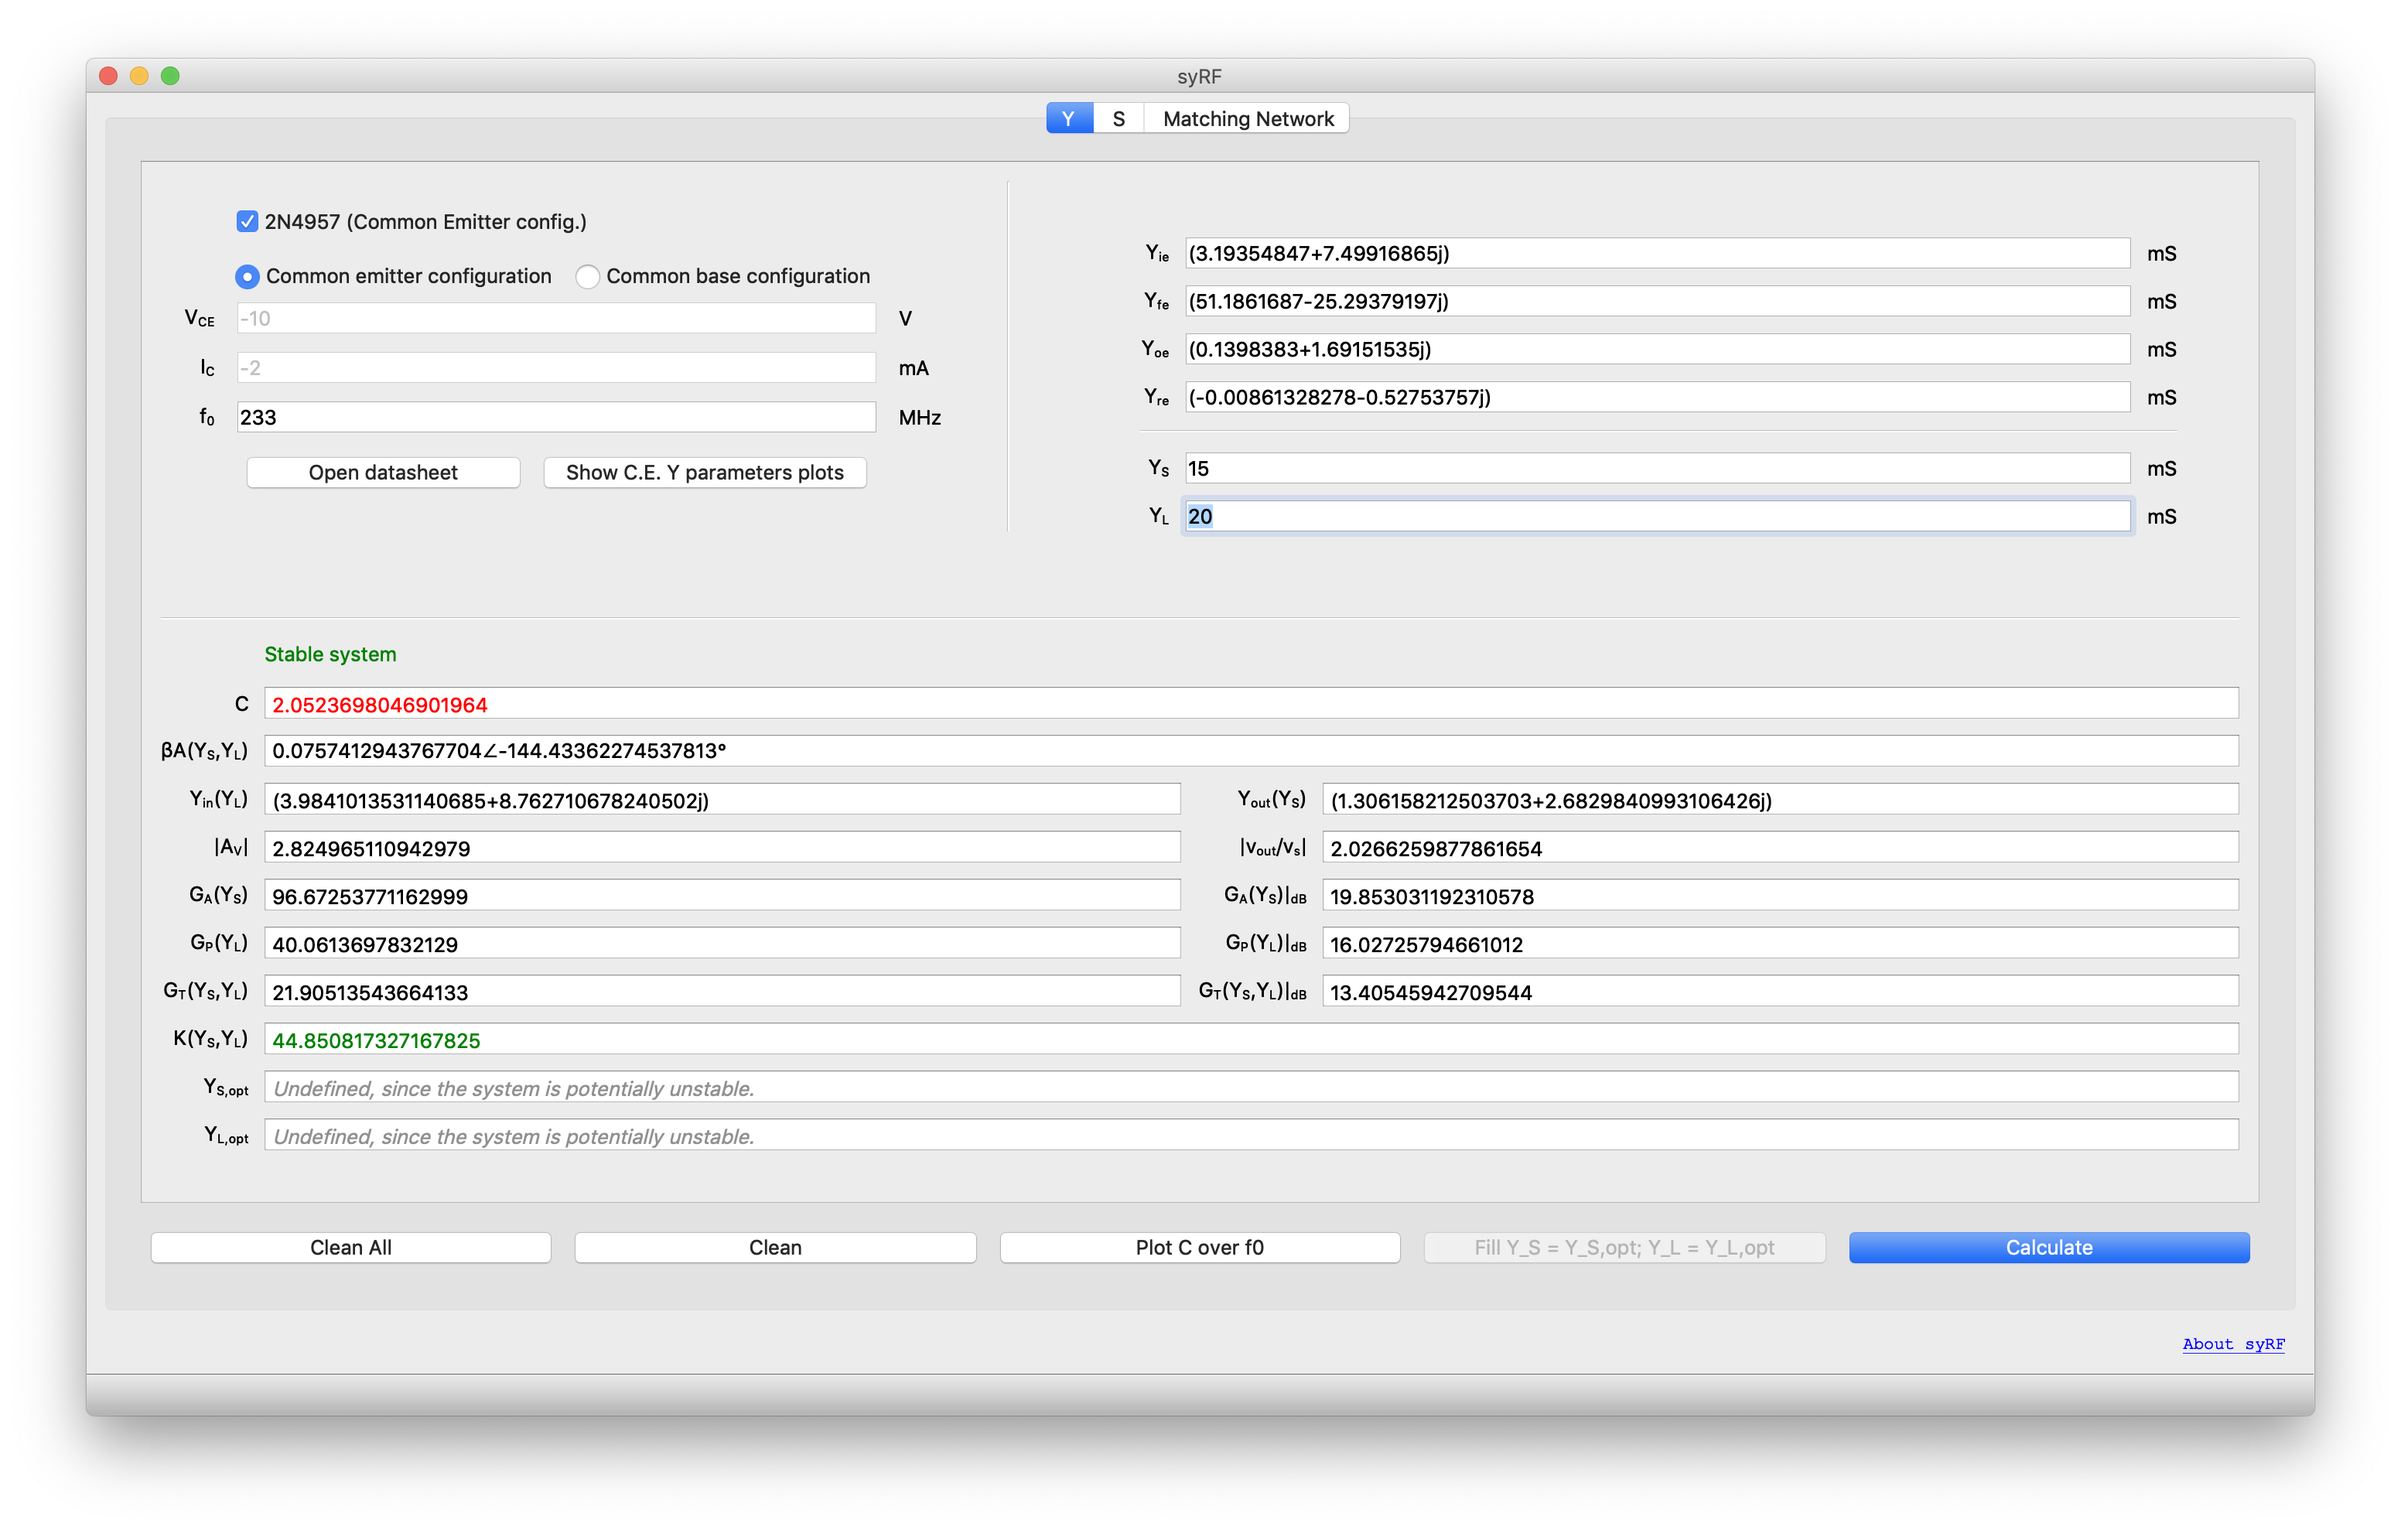
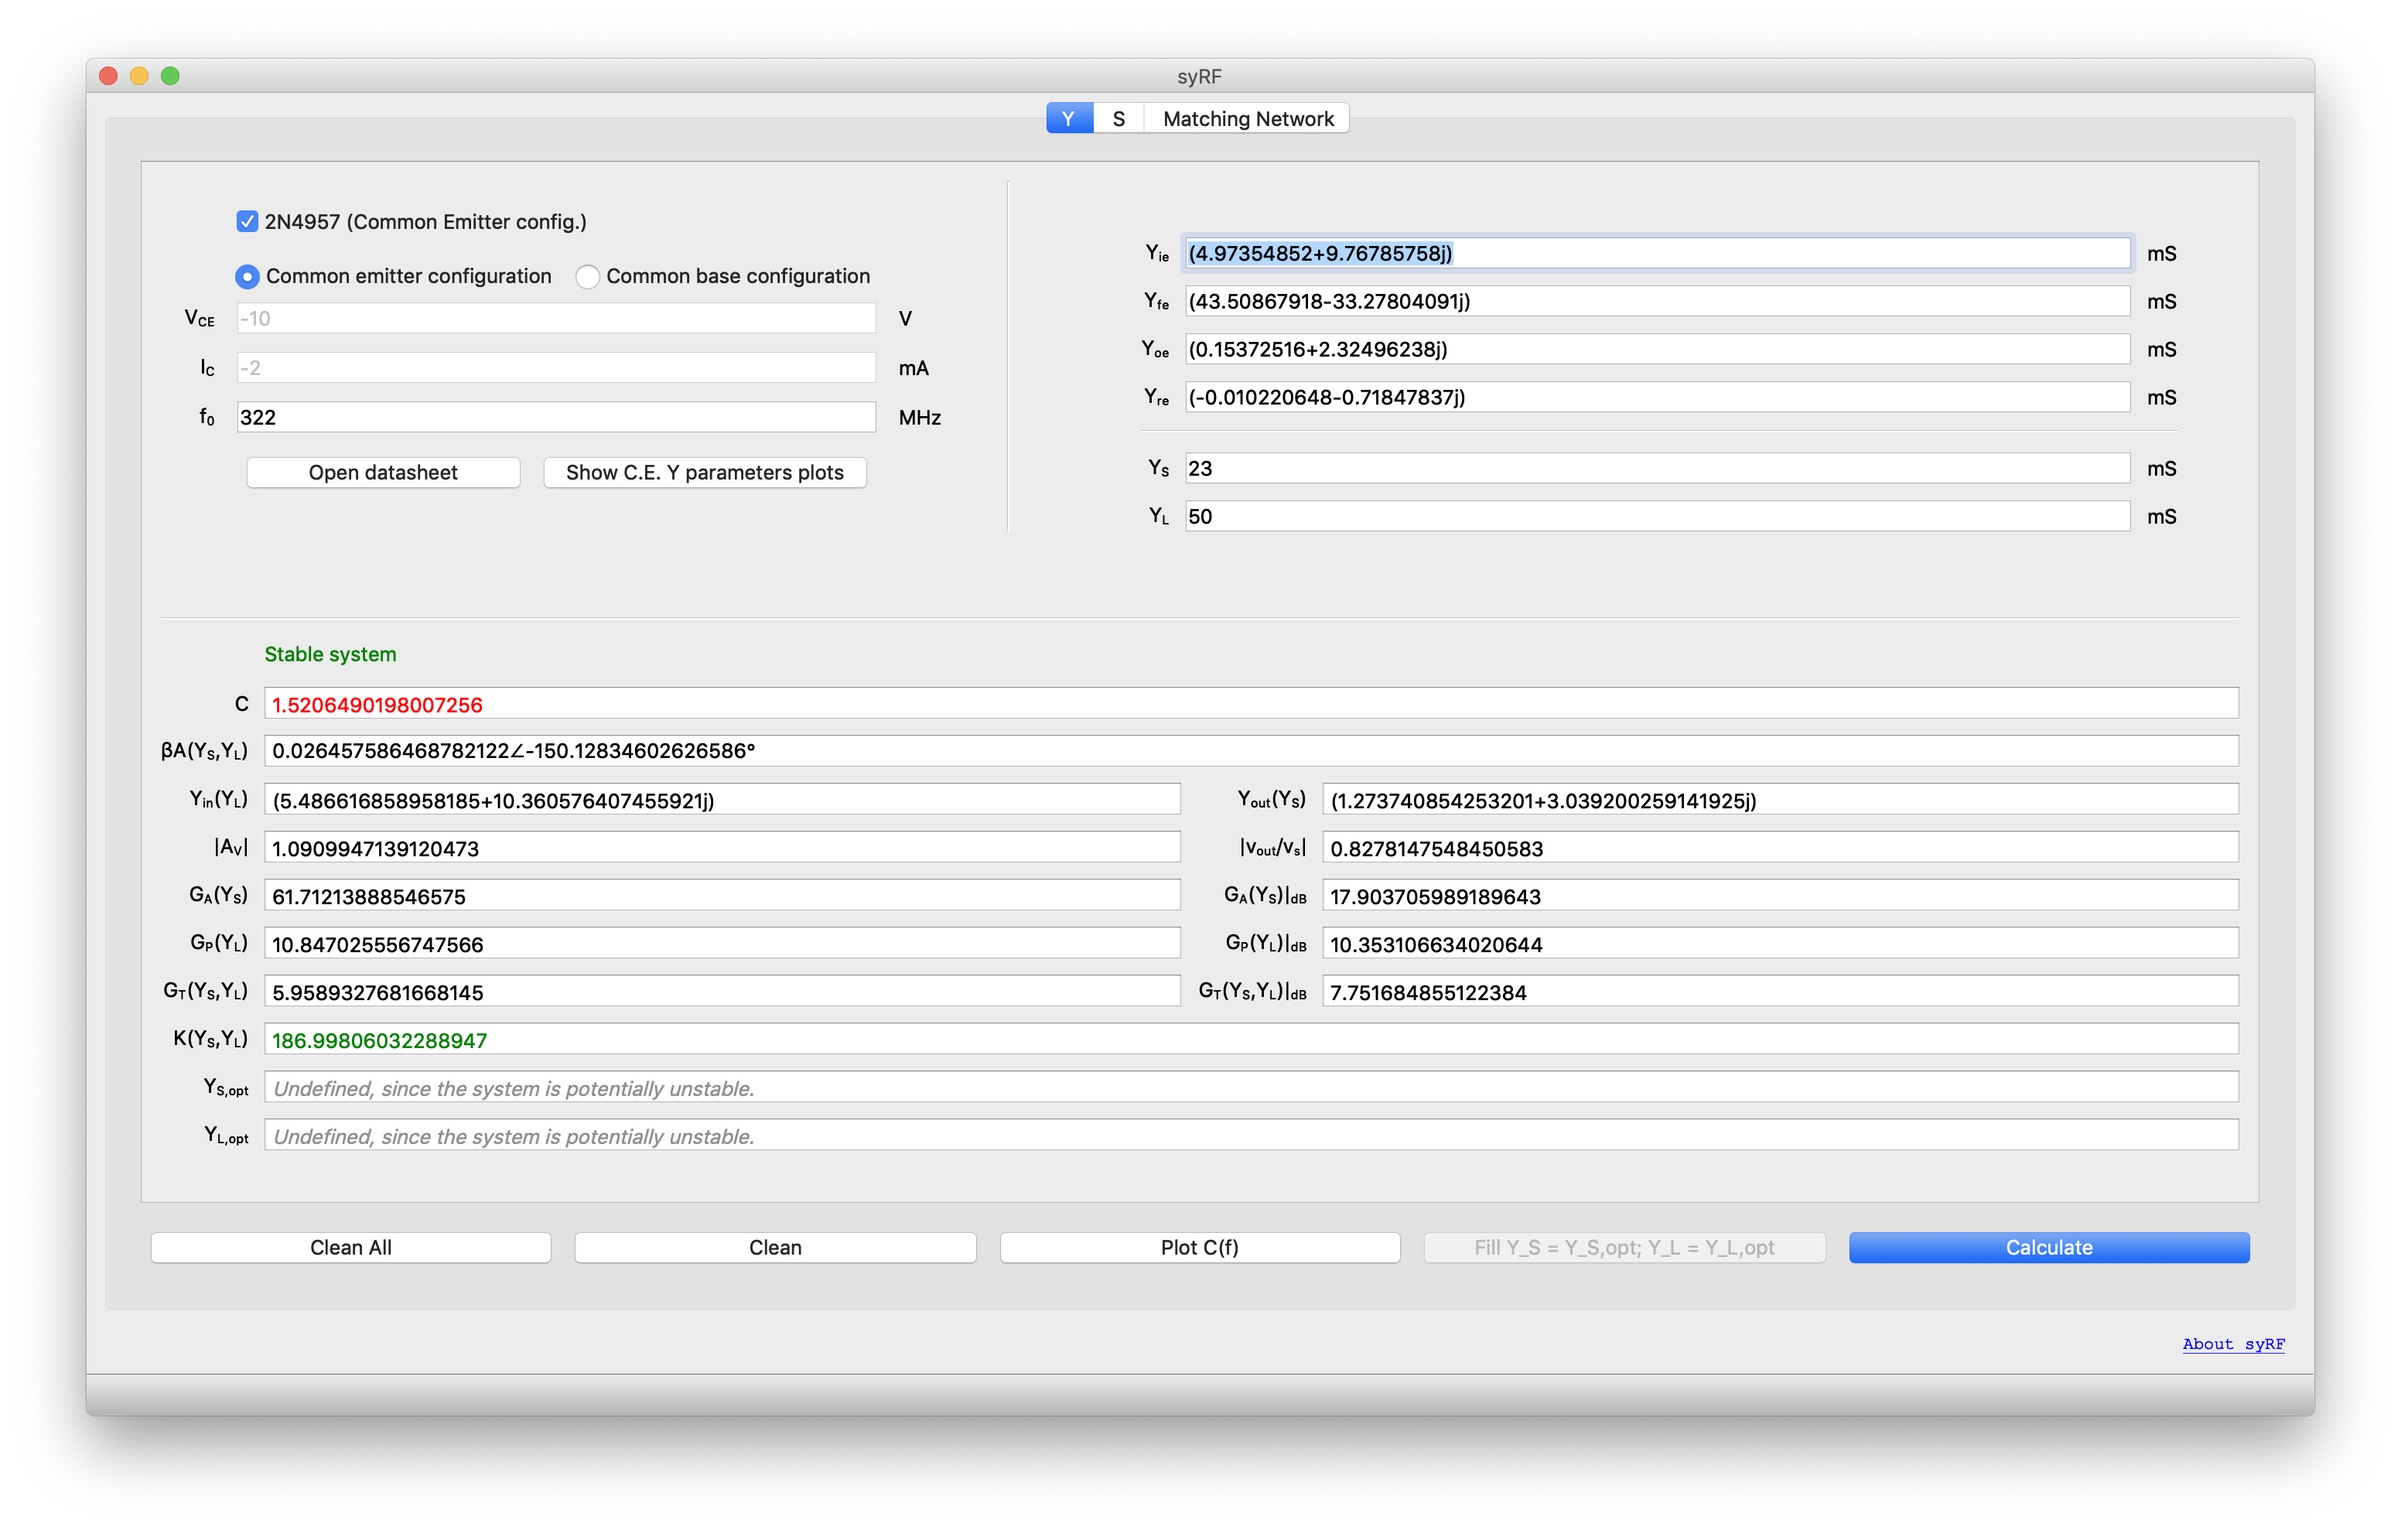
improved C(f) plot

diff --git a/src/main/python/syRF_ui.py b/src/main/python/syRF_ui.py
@@ -11,7 +11,7 @@ from PyQt5 import QtCore, QtGui, QtWidgets
 class Ui_MainWindow(object):
     def setupUi(self, MainWindow):
         MainWindow.setObjectName("MainWindow")
-        MainWindow.resize(1357, 830)
+        MainWindow.resize(1357, 853)
         MainWindow.setWindowTitle("syRF")
         self.centralwidget = QtWidgets.QWidget(MainWindow)
         self.centralwidget.setObjectName("centralwidget")
@@ -396,9 +396,9 @@ class Ui_MainWindow(object):
         self.Clean_button_3 = QtWidgets.QPushButton(self.tab_5)
         self.Clean_button_3.setObjectName("Clean_button_3")
         self.horizontalLayout_16.addWidget(self.Clean_button_3)
-        self.plot_C_over_f0 = QtWidgets.QPushButton(self.tab_5)
-        self.plot_C_over_f0.setObjectName("plot_C_over_f0")
-        self.horizontalLayout_16.addWidget(self.plot_C_over_f0)
+        self.plot_C_f0_button = QtWidgets.QPushButton(self.tab_5)
+        self.plot_C_f0_button.setObjectName("plot_C_f0_button")
+        self.horizontalLayout_16.addWidget(self.plot_C_f0_button)
         self.Fill_ys_yl_opt_button = QtWidgets.QPushButton(self.tab_5)
         self.Fill_ys_yl_opt_button.setObjectName("Fill_ys_yl_opt_button")
         self.horizontalLayout_16.addWidget(self.Fill_ys_yl_opt_button)
@@ -417,7 +417,7 @@ class Ui_MainWindow(object):
         self.scrollArea_2.setWidgetResizable(True)
         self.scrollArea_2.setObjectName("scrollArea_2")
         self.scrollAreaWidgetContents_2 = QtWidgets.QWidget()
-        self.scrollAreaWidgetContents_2.setGeometry(QtCore.QRect(0, 0, 1285, 861))
+        self.scrollAreaWidgetContents_2.setGeometry(QtCore.QRect(0, 0, 852, 861))
         self.scrollAreaWidgetContents_2.setObjectName("scrollAreaWidgetContents_2")
         self.verticalLayout_10 = QtWidgets.QVBoxLayout(self.scrollAreaWidgetContents_2)
         self.verticalLayout_10.setObjectName("verticalLayout_10")
@@ -1242,7 +1242,7 @@ class Ui_MainWindow(object):
         self.scrollArea_3.setWidgetResizable(True)
         self.scrollArea_3.setObjectName("scrollArea_3")
         self.scrollAreaWidgetContents_3 = QtWidgets.QWidget()
-        self.scrollAreaWidgetContents_3.setGeometry(QtCore.QRect(0, 0, 1239, 638))
+        self.scrollAreaWidgetContents_3.setGeometry(QtCore.QRect(0, 0, 617, 611))
         self.scrollAreaWidgetContents_3.setObjectName("scrollAreaWidgetContents_3")
         self.verticalLayout_12 = QtWidgets.QVBoxLayout(self.scrollAreaWidgetContents_3)
         self.verticalLayout_12.setObjectName("verticalLayout_12")
@@ -2526,7 +2526,7 @@ class Ui_MainWindow(object):
         self.radioButton_CE.setText(_translate("MainWindow", "Common emitter configuration"))
         self.Clean_all_button_4.setText(_translate("MainWindow", "Clean All"))
         self.Clean_button_3.setText(_translate("MainWindow", "Clean"))
-        self.plot_C_over_f0.setText(_translate("MainWindow", "Plot C over f0"))
+        self.plot_C_f0_button.setText(_translate("MainWindow", "Plot C(f)"))
         self.Fill_ys_yl_opt_button.setText(_translate("MainWindow", "Fill Y_S = Y_S,opt; Y_L = Y_L,opt"))
         self.Calculate_button_4.setText(_translate("MainWindow", "Calculate"))
         self.tabWidget.setTabText(self.tabWidget.indexOf(self.tab_5), _translate("MainWindow", "Y"))

diff --git a/src/main/python/Y_tab.py b/src/main/python/Y_tab.py
@@ -491,6 +491,12 @@ def open_datasheet_Y(self):
 # really slow. 
 
 def plot_C_over_f(self):
+
+
+    fig, ax = plt.subplots()
+
+
+
     
     freq_list = np.linspace(45, 1500, 1000)
     yi_list = []
@@ -633,6 +639,7 @@ def plot_C_over_f(self):
             C = Y.calculate_C(yi_, yf_, yo_, yr_)
 
             C_list.append(C)
+            plt.ylim(-15, 15)
 
     # ============================================================
     #          END COPY
@@ -640,11 +647,18 @@ def plot_C_over_f(self):
 
     
 
-    plt.plot(freq_list, C_list)
+    
+    ax.plot(freq_list, C_list, label="$C(f_0)$")
+
+
+    # plot unconditionally stable area
+    ax.axhspan(0, 1, alpha=0.2, color='green')
+
     
 
     plt.grid(True,which="both",ls="-")
     plt.xlim(45, 1500)
+
     plt.xscale('log')
     plt.legend()
     plt.xlabel("$f\ (Hz)$")

diff --git a/src/main/python/main.py b/src/main/python/main.py
@@ -72,7 +72,7 @@ class mainProgram(QtWidgets.QMainWindow, Ui_MainWindow):
         self.show_plots_button.clicked.connect(self.show_plot_Y_parameters)
         self.open_datasheet_Y_button.clicked.connect(self.open_datasheet_Y)
 
-        self.plot_C_over_f0.clicked.connect(self.plot_C_over_f)
+        self.plot_C_f0_button.clicked.connect(self.plot_C_over_f)
 
         self.Clean_button_3.clicked.connect(self.clean_Y_2N4957)
         self.Clean_all_button_4.clicked.connect(self.clean_all_Y_2N4957)
